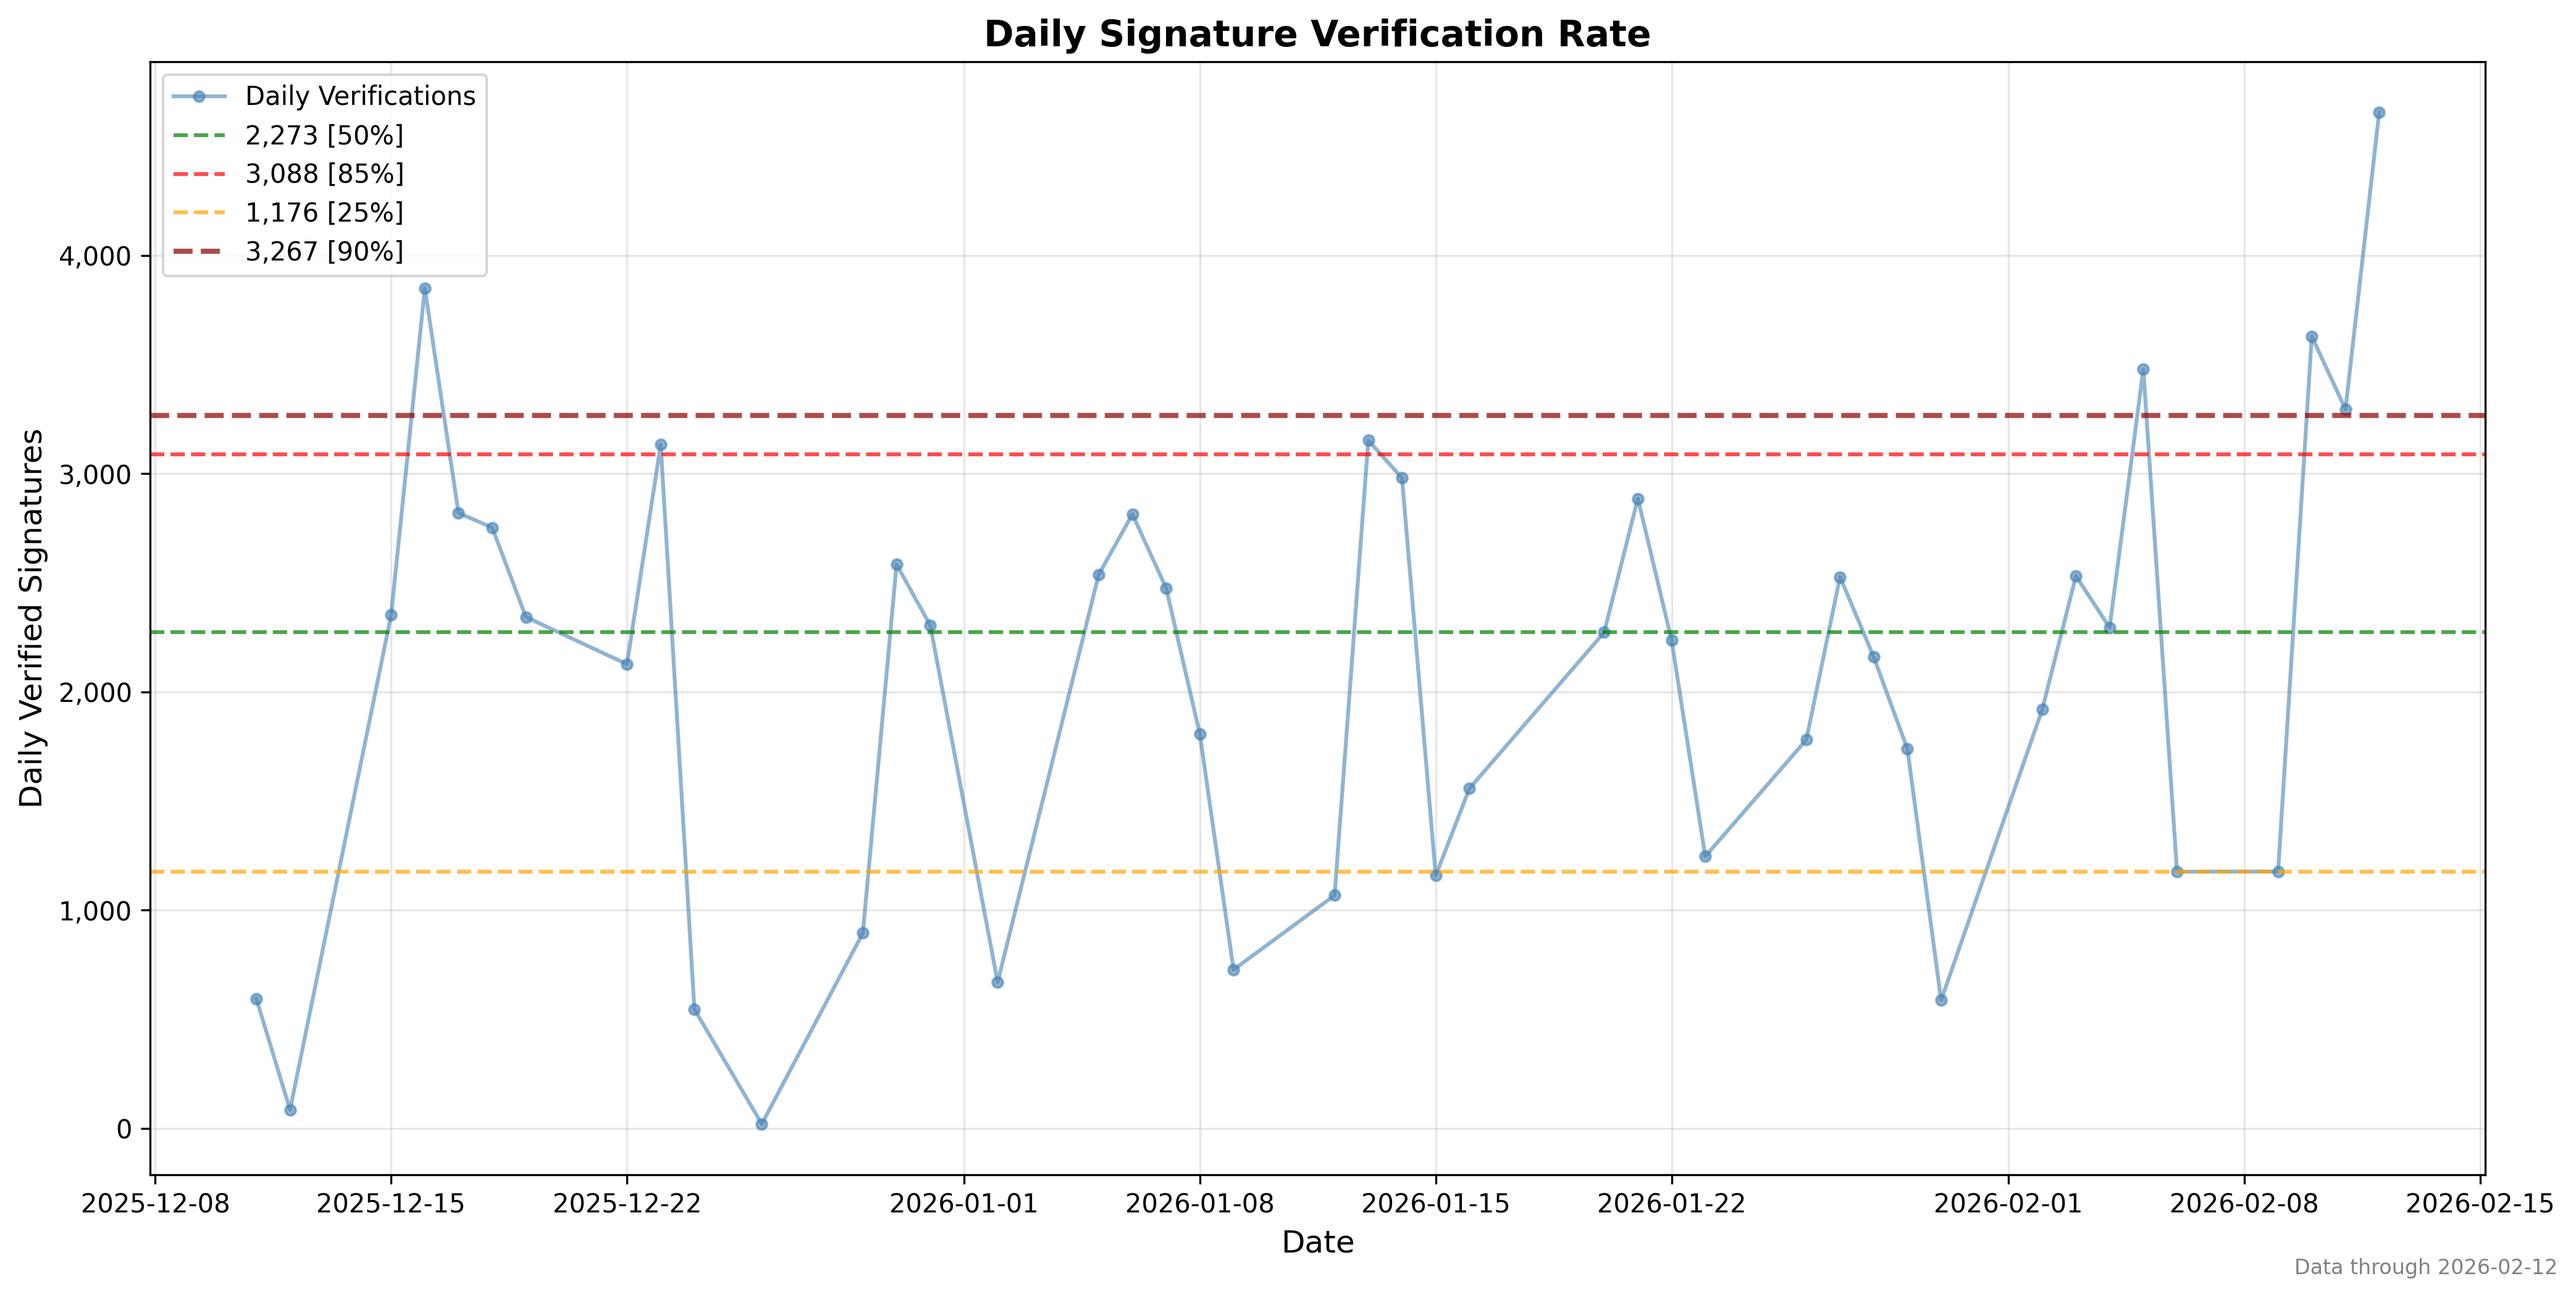
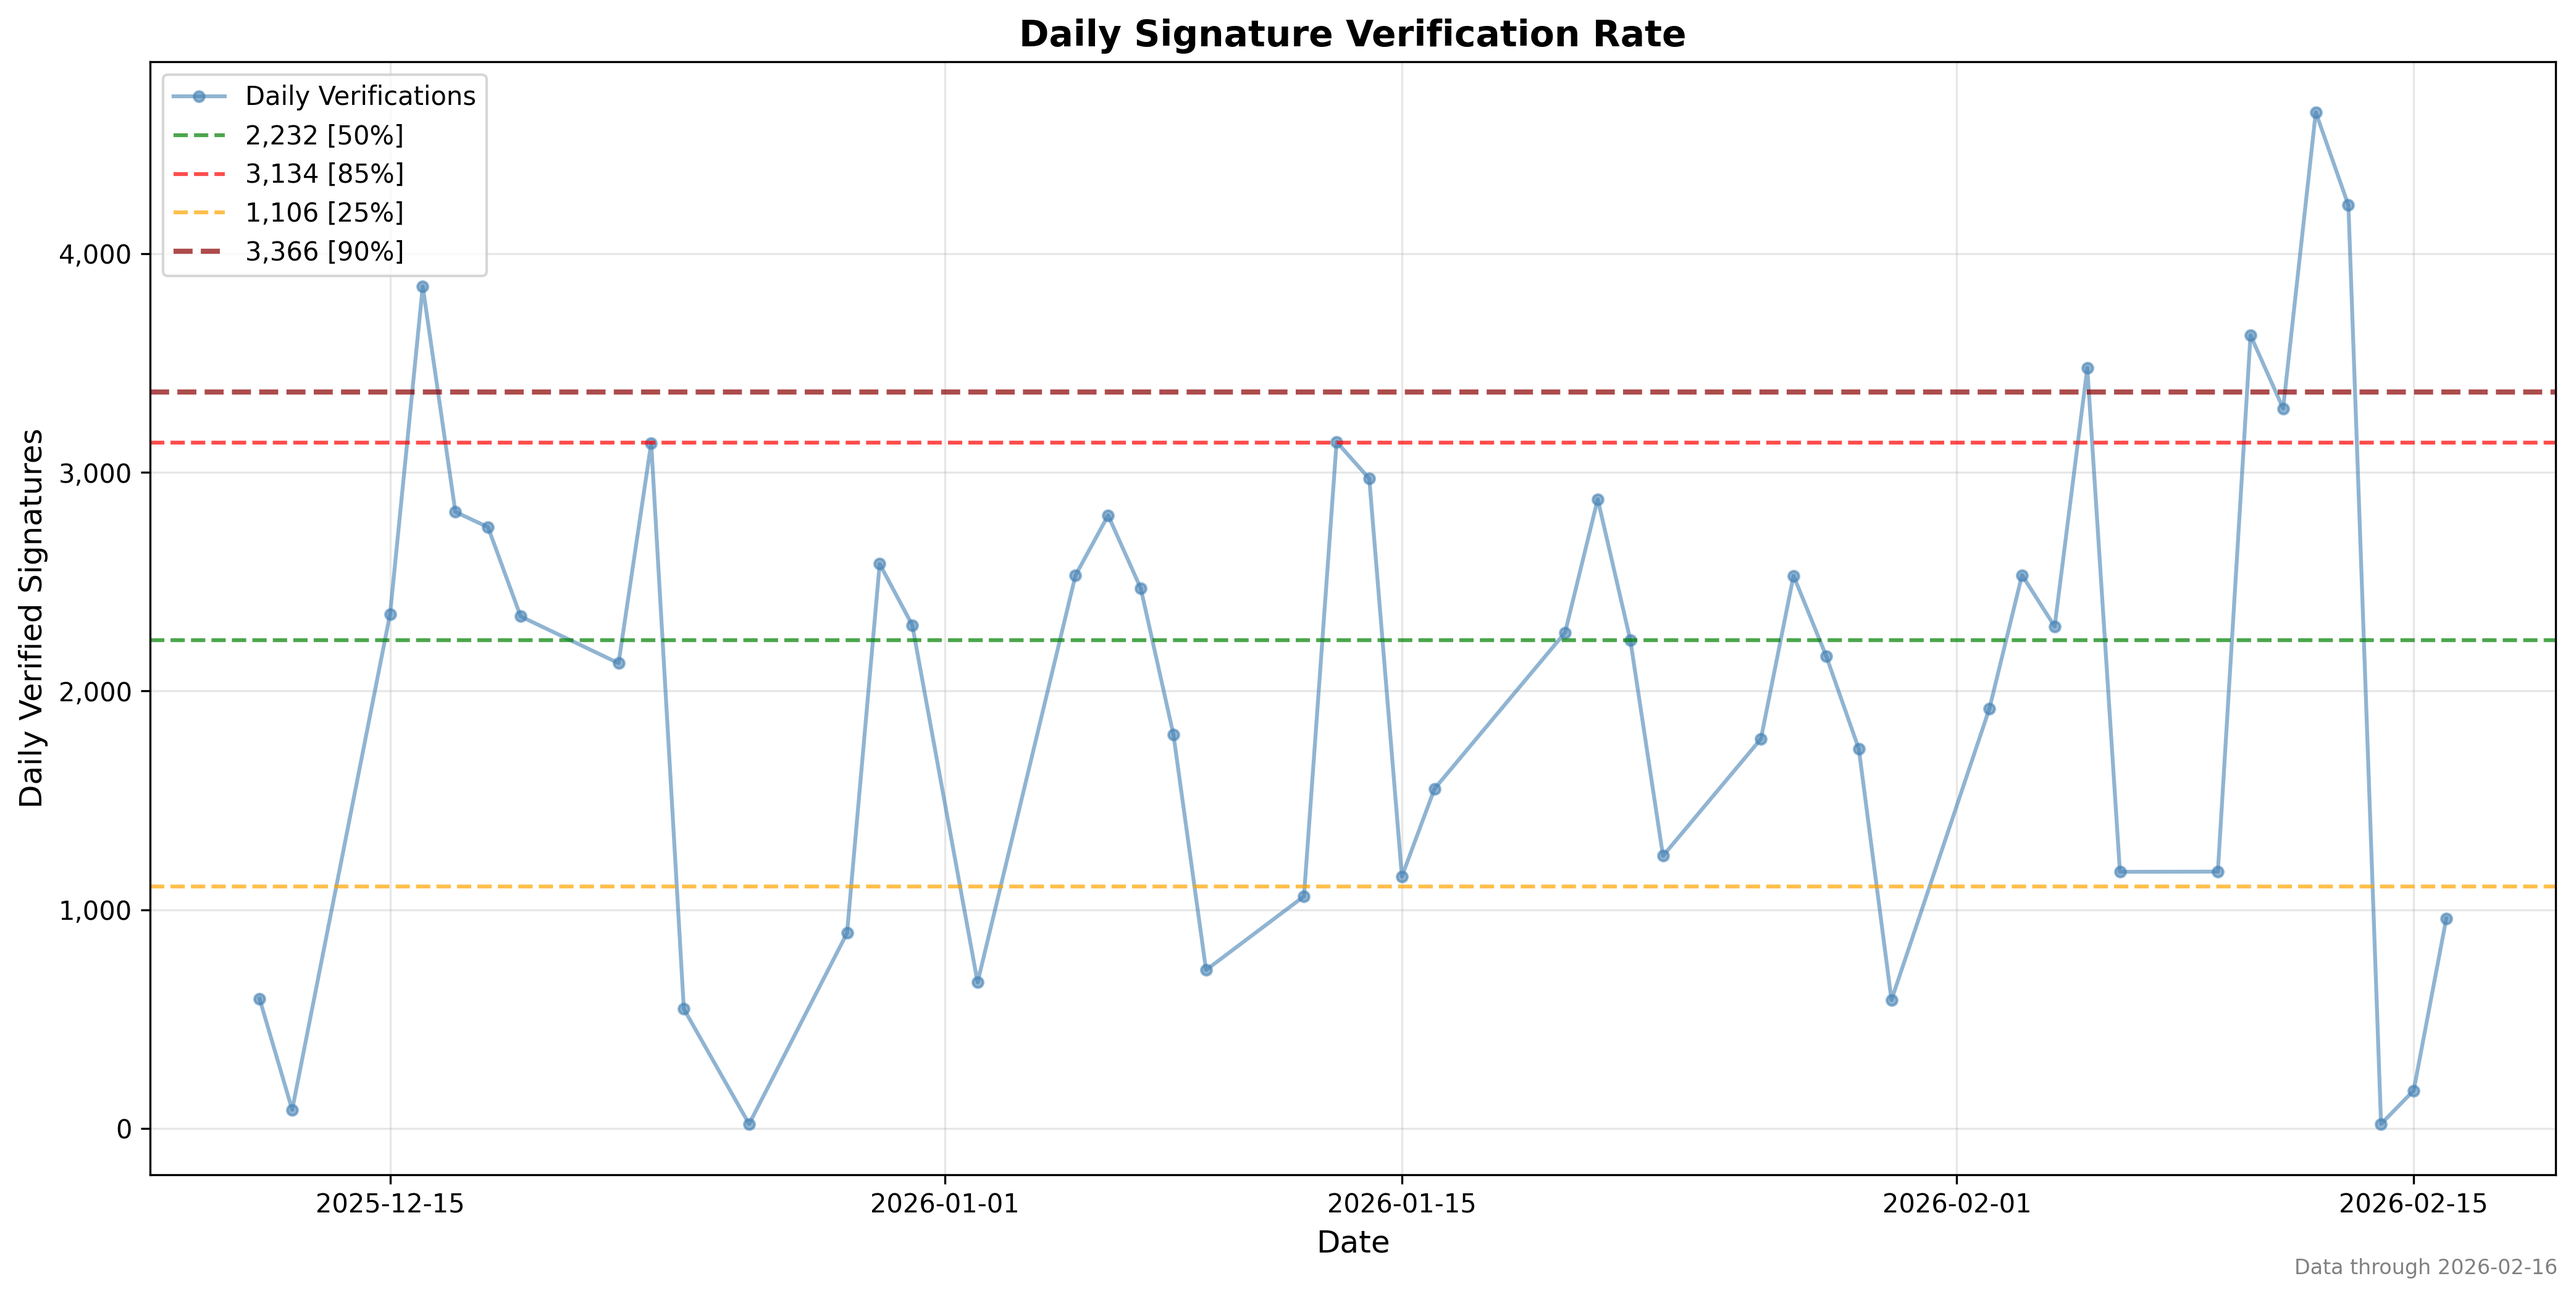
2026-02-17 data update; includes a 'tuned' age limit so that the distribution of signatures in an aggressive scenario comports with sponsor's claims.

diff --git a/hidden_w_partisan_boost.py b/hidden_w_partisan_boost.py
@@ -19,7 +19,7 @@ TARGET_DATE = "2026-03-08"
 HIDE_DEADLINE = "2026-02-15"  # After this date, no new signatures can be hidden
 N_SIMULATIONS = 100000
 BLOCK_SIZE = 5
-SIGN_AGE_LIMIT = 30  # Number of days signatures are held back
+SIGN_AGE_LIMIT = 18  # Number of days signatures are held back; tuned to give 200k-220k total in aggressive scenario
 
 # OPTIMISM SETTING
 # 0.75 = Use top 25% of days
